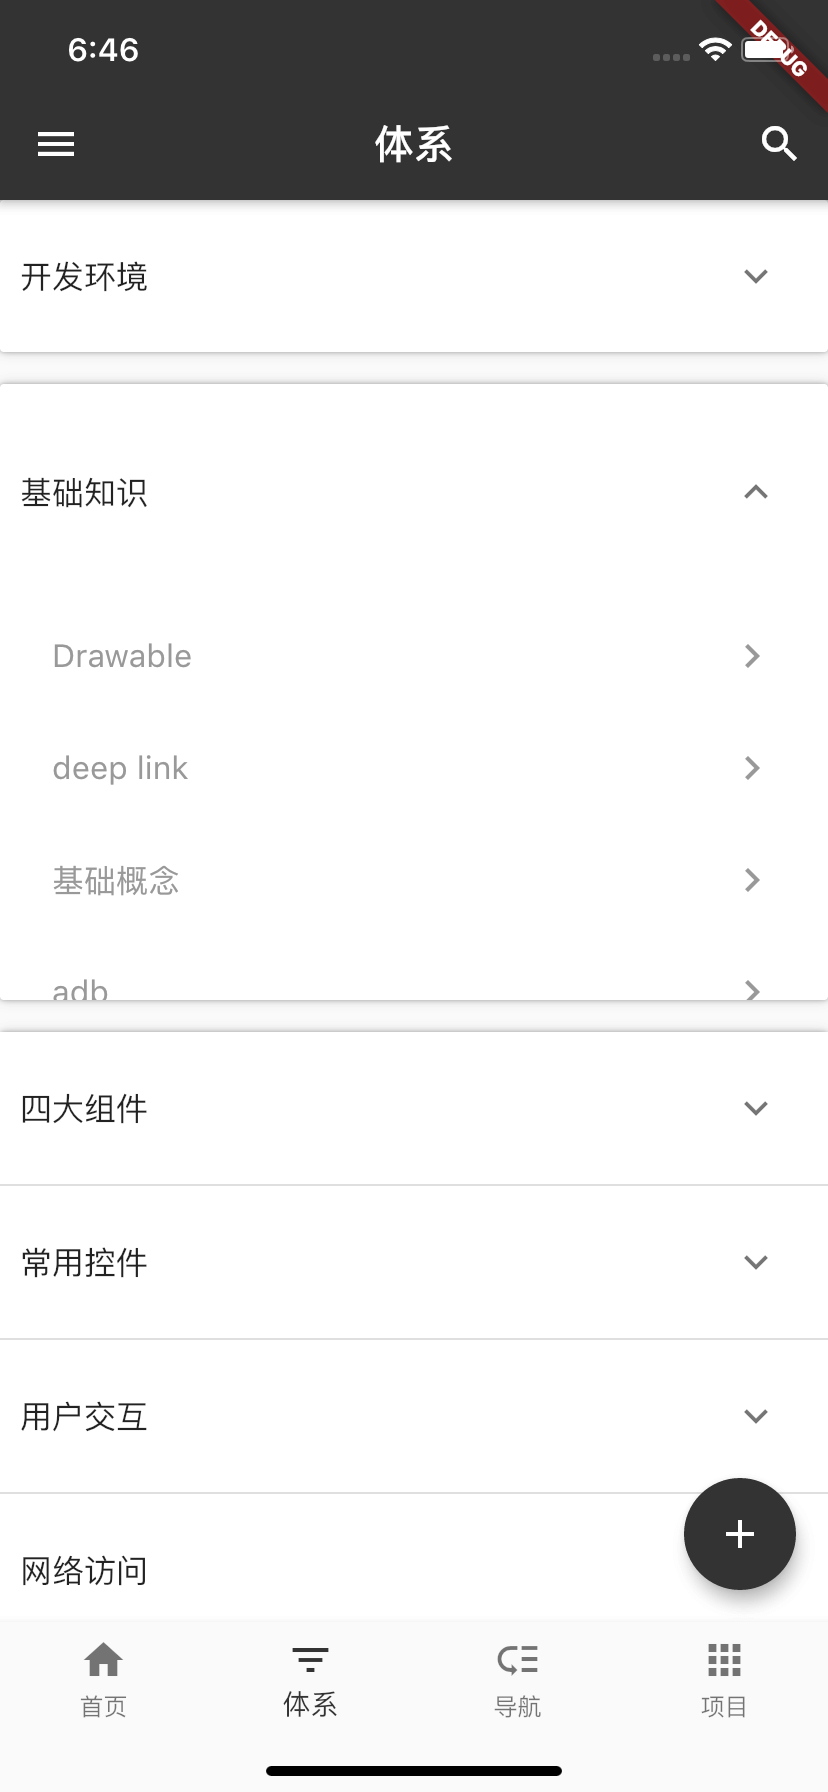
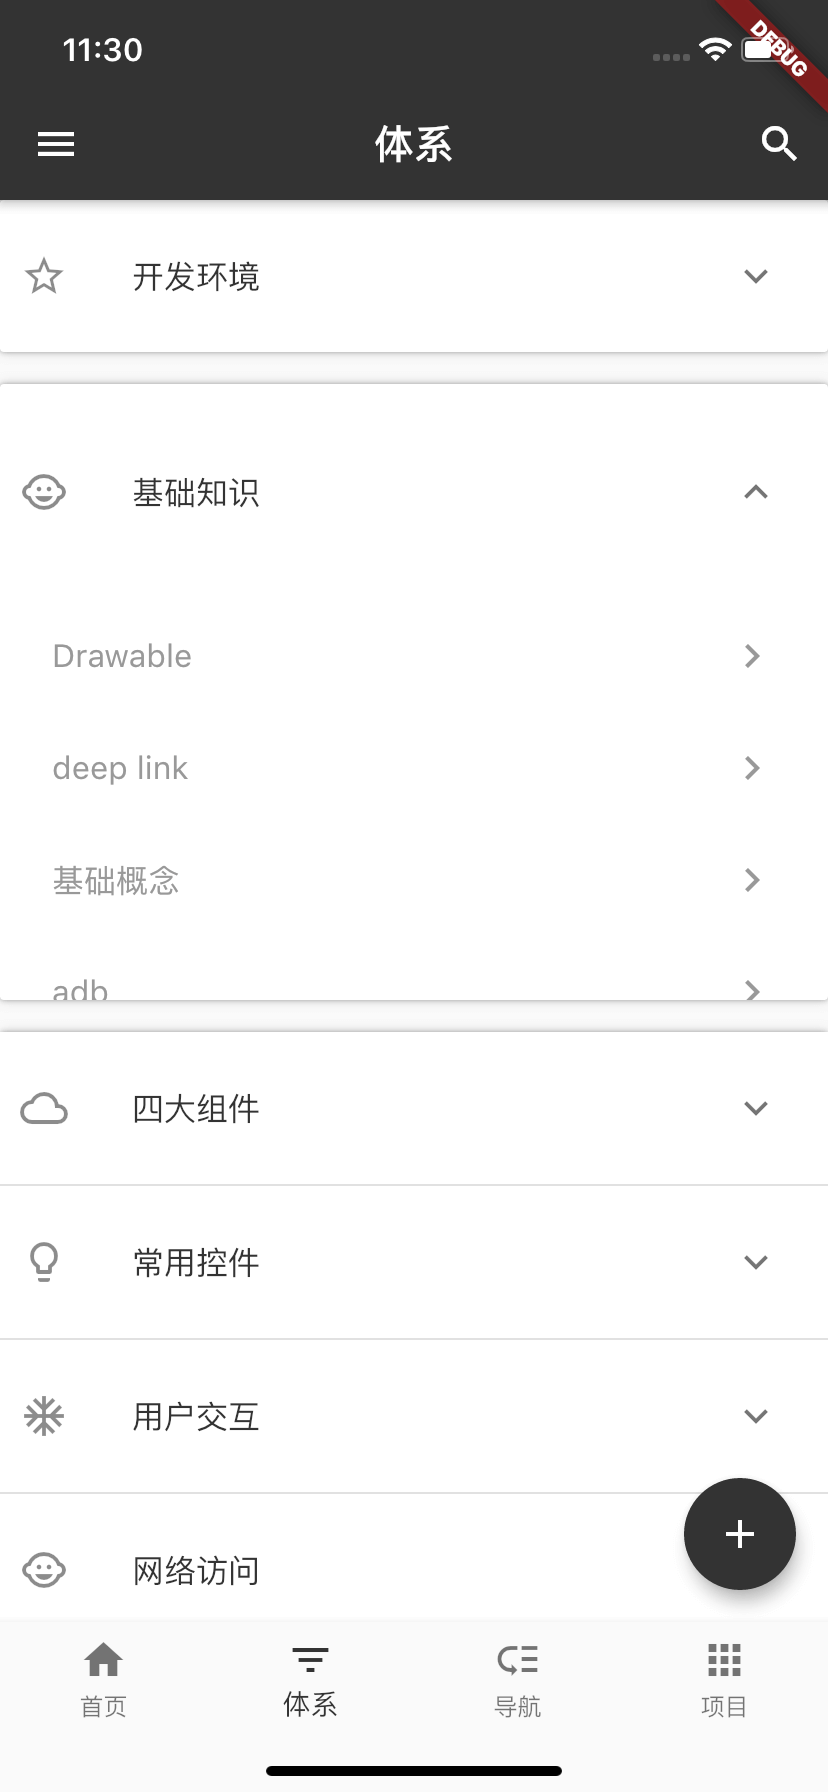
体系和导航页面美化

diff --git a/lib/pages/treePage.dart b/lib/pages/treePage.dart
@@ -1,4 +1,5 @@
 import 'dart:convert';
+import 'dart:math';
 
 import 'package:flutter/material.dart';
 import 'package:wanandroid_flutter/common/api.dart';
@@ -17,6 +18,13 @@ class TreePage extends StatefulWidget {
 class _TreePageState extends State<TreePage> {
   List<TreeData> _datas = List();
   ScrollController _scrollController = ScrollController();
+  List<IconData> _icons = [
+    Icons.star_border,
+    Icons.child_care,
+    Icons.cloud_queue,
+    Icons.ac_unit,
+    Icons.lightbulb_outline,
+  ];
 
   @override
   void initState() {
@@ -41,7 +49,7 @@ class _TreePageState extends State<TreePage> {
       Map userMap = json.decode(response.toString());
       var treeEntity = TreeEntity.fromJson(userMap);
 
-      //遍历赋值isExpanded标识
+      //遍历赋值isExpanded标识，默认全部合并
       for (int i = 0; i < treeEntity.data.length; i++) {
         treeEntity.data[i].isExpanded = false;
       }
@@ -80,7 +88,12 @@ class _TreePageState extends State<TreePage> {
                 headerBuilder: (context, isExpanded) {
                   return ListTile(
                     contentPadding: EdgeInsets.all(10.0),
-                    title: Text(treeData.name),
+                    title: Text(
+                      treeData.name,
+                      style: TextStyle(color: Theme.of(context).primaryColor),
+                    ),
+                    //取随机icon
+                    leading: Icon(_icons[Random().nextInt(_icons.length)]),
                   );
                 },
                 //展开内容

diff --git a/lib/pages/naviPage.dart b/lib/pages/naviPage.dart
@@ -79,7 +79,16 @@ class _NaviPageState extends State<NaviPage> {
       child: Container(
         alignment: Alignment.center,
         padding: EdgeInsets.symmetric(vertical: 15, horizontal: 10),
-        color: index == i ? YColors.color_F9F9F9 : Colors.white,
+        //Container下的color属性会与decoration下的border属性冲突，所以要用decoration下的color属性
+        decoration: BoxDecoration(
+          color: index == i ? YColors.color_F9F9F9 : Colors.white,
+          border: Border(
+            left: BorderSide(
+                width: 5,
+                color:
+                    index == i ? Theme.of(context).primaryColor : Colors.white),
+          ),
+        ),
         child: Text(_datas[i].name,
             style: TextStyle(
                 color: index == i ? textColor : YColors.color_666,
